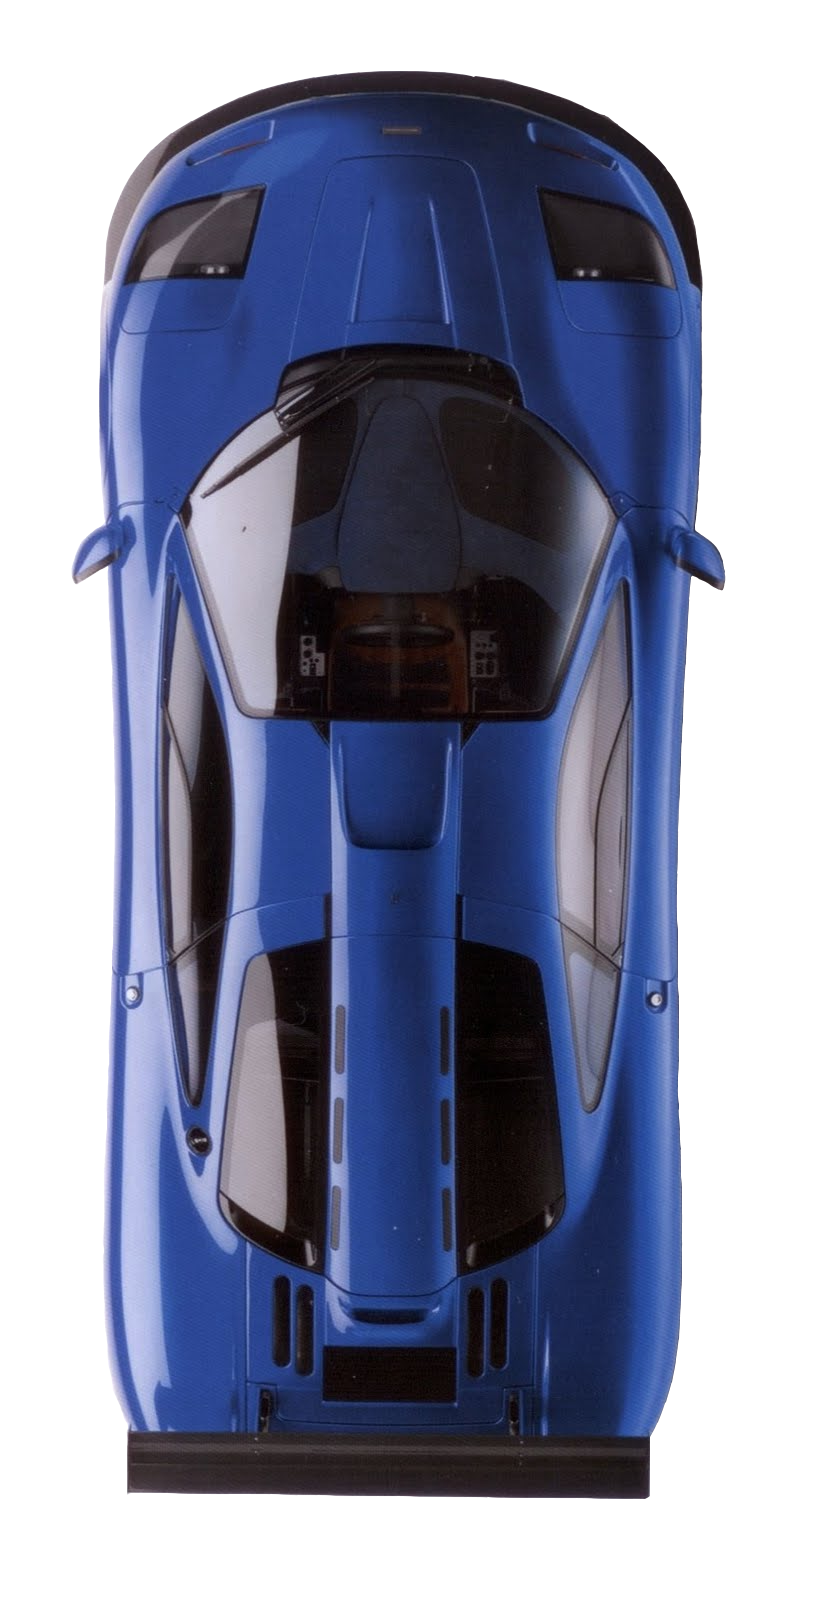
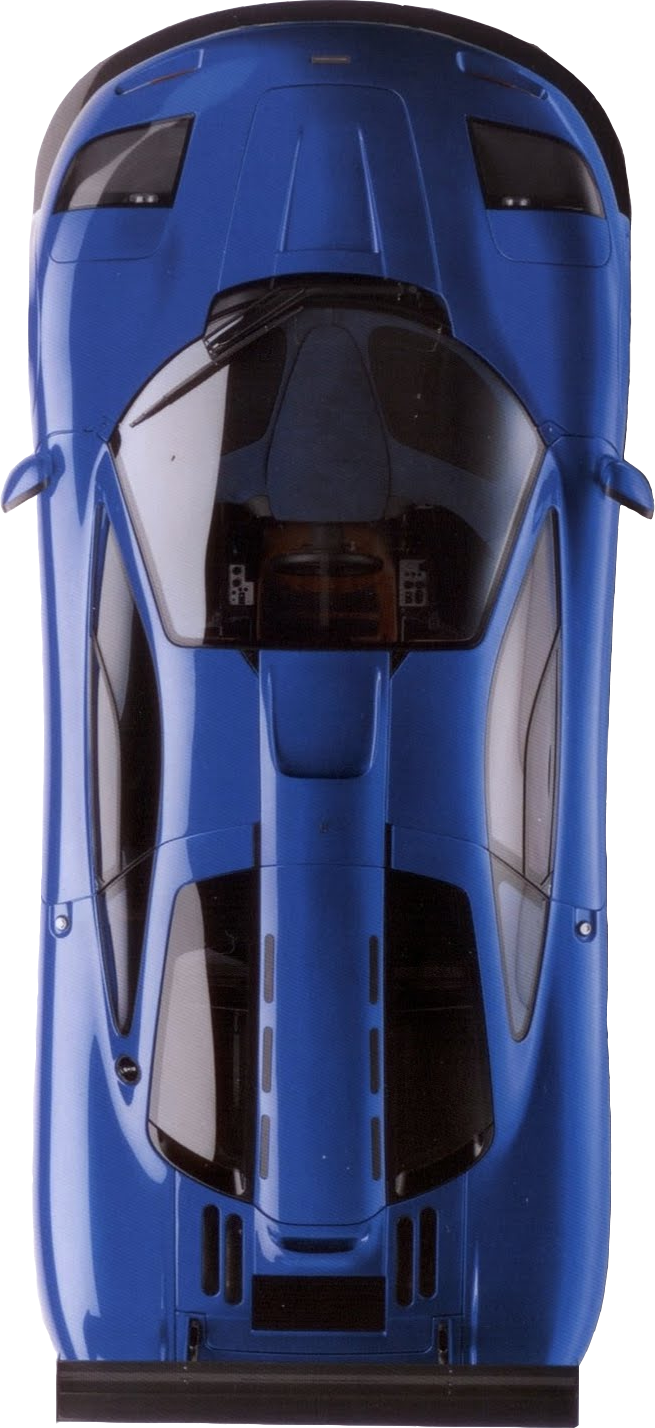
Add speedometer

diff --git a/street_racer.py b/street_racer.py
@@ -2,6 +2,7 @@
 import json
 import os
 import scipy.interpolate
+from math import cos, sin, degrees, radians, asin, pi
 
 try:
     # Only used to show the power and torque interpolation
@@ -17,6 +18,12 @@ SCREENRECT = Rect(0, 0, 1280, 720)
 
 # constant to convert Pferdestarke (PS) to kW
 PS_TO_KW = 0.73549875
+# air density in kg/m^3
+AIR_DENSITY = 1.225
+
+PIXELS_PER_METRE = 142 / 4.29
+
+EARTH_ACCELERATION = 9.81
 
 # see if we can load more than standard BMP
 if not pg.image.get_extended():
@@ -77,18 +84,27 @@ class Player(pg.sprite.Sprite):
         Args:
             configuration: dictionary with vehicle data such as name and stats
         """
+        # sprite configuration
         pg.sprite.Sprite.__init__(self, self.containers)
         self.image = self.images[0]
         self.image_original = self.images[0]
         self.rect = self.image.get_rect(midbottom=SCREENRECT.midbottom)
+        # player configuration
+        self.configuration = configuration
         self.angle = 0  # current sprite rotation in degrees
         self.posX, self.posY = self.rect.center
         self.origtop = self.rect.top
-        # Way in which car accelerates +1 = foreward, -1 = backward, 0 = no acceleration
+        # Way in which car accelerates +1 = forward, -1 = backward, 0 = no acceleration
         self.acceleration = 0
-        self.velocity = 0
+        # Way which driver wants to turn +1 = left, -1 = right, 0 = no steering
+        self.steering = 0
+        self.velocity = 0  # current velocity of the vehicle
+        self.min_RPM = configuration["stats"]["min_rpm"]
+        self.max_RPM = configuration["stats"]["max_rpm"]
         self.engine_RPM = 5000  # For now use constant RPM of the engine
         self.mass = configuration["stats"]["mass"]
+        self.gear = 1 # current gear
+        self.gears = configuration["transmission"]
 
         # Below lists represent the interpolated values of engine power and torque every 1 RPM
         self.power_interpolation = []
@@ -121,8 +137,9 @@ class Player(pg.sprite.Sprite):
         Args:
             direction: +1 turn counter-clockwise, -1 turn clockwise
         """
-        self.angle += direction
-        self.image, self.rect = rot_center(self.image_original, self.rect, self.angle)
+        self.steering = direction
+        # self.angle += direction
+        # self.image, self.rect = rot_center(self.image_original, self.rect, self.angle)
 
     def get_power(self):
         """ Returns the current power output from the engine """
@@ -135,16 +152,96 @@ class Player(pg.sprite.Sprite):
         """
         return self.torque_interpolation[int(self.engine_RPM)]
 
+    def update_rpm(self):
+        # wheel revolutions per second
+        revolutions = self.velocity / (2 * self.configuration["wheels"]["radius"] * pi)
+        engine_revolutions = revolutions * trans
+
     def update(self, deltaTime):
         # F = ma, F*s = P, W = P*t, M = r*F
+        fs = self.configuration["wheels"]["static_friction"]
+        if self.acceleration > 0 or self.velocity < 0:
+            r = self.configuration["wheels"]["radius"]
+            F = self.get_torque() / r  # force that pushes the car forward
+        else:
+            F = fs * self.mass * EARTH_ACCELERATION
 
-        # calculate the position delta
+        F *= self.acceleration
+
+        # calculate aerodynamic drag
+        SCd = (
+            self.configuration["stats"]["front_area"]
+            * self.configuration["stats"]["drag_coefficient"]
+        )
+        Fd = 0.5 * AIR_DENSITY * self.velocity ** 2 * SCd
+        F -= Fd  # F is now the net force exerted on vehicle
+        a = F / self.mass
+
+        self.velocity += a * deltaTime
+
+        self.posX += -sin(radians(self.angle)) * self.velocity * deltaTime * PIXELS_PER_METRE
+        self.posY += -cos(radians(self.angle)) * self.velocity * deltaTime * PIXELS_PER_METRE
+
+        if self.steering != 0:
+            # Calculate the maximum angle at which the car can turn without losing grip
+            wheelbase = self.configuration["geometry"]["wheelbase"]
+            max_friction = fs * self.mass * EARTH_ACCELERATION
+
+            # wheelbase/ R = sin(turningAngle)
+            # centrifugal force: Fc = mv^2/r
+            R = self.mass * self.velocity ** 2 / max_friction
+            max_turning_angle = self.configuration["wheels"]["max_turning_angle"]
+            turning_angle = 90  # no car can turn at 90 degrees
+            if R > wheelbase:
+                turning_angle = degrees(asin(wheelbase / R))
+                actualR = R
+            if turning_angle > max_turning_angle:
+                turning_angle = max_turning_angle
+                actualR = sin(radians(turning_angle)) * wheelbase
+            # omega = v / r
+            angular_velocity = self.velocity / actualR  # in radians
+            # print(self.velocity*3.6, turning_angle, max_friction)
+
+            self.angle += self.steering * degrees(angular_velocity) * deltaTime
+
+        # calculate the position delta in relation to players rectangle
         currX, currY = self.rect.center
         deltaX = int(self.posX - currX)
         deltaY = int(self.posY - currY)
         self.rect.move_ip(deltaX, deltaY)
-        pass
+        # rotate the rectangle to correct position
+        self.image, self.rect = rot_center(self.image_original, self.rect, self.angle)
 
+
+class Speedmeter(pg.sprite.Sprite):
+    """ 
+    To keep track of speed
+    """
+
+    def __init__(self, padding=3, position=(1180, 640), color="red"):
+        pg.sprite.Sprite.__init__(self)
+        self.font = pg.font.Font(None, 72)
+        # self.font.set_italic(1)
+        self.color = pg.Color(color)
+        self.lastspeed = -1
+        self.speed = 0
+        self.padding = padding
+        self.update()
+        self.rect = self.image.get_rect().move(position[0], position[1])
+
+    def set(self, speed):
+        self.speed = speed
+
+    def update(self, *args):
+        """
+        We only update the speed in update() when it has changed.
+        """
+        if self.speed != self.lastspeed:
+            self.lastspeed = self.speed
+            msg = str(self.speed)
+            pad = "0" * (self.padding-len(msg))
+            msg = pad + msg
+            self.image = self.font.render(msg, 0, self.color)
 
 def main(winstyle=0, framerate=60):
     """
@@ -155,7 +252,7 @@ def main(winstyle=0, framerate=60):
     """
     # Initialize pygame
     if pg.get_sdl_version()[0] == 2:
-        # needed for audio later on
+        # needed for audio later
         pg.mixer.pre_init(44100, 32, 2, 4096)
     pg.init()
 
@@ -170,7 +267,8 @@ def main(winstyle=0, framerate=60):
     pg.display.set_caption("Street Racer")
     pg.mouse.set_visible(0)
 
-    # Create the background, tile the background image
+    # Create the background
+    # leave it like this, in the future the background can be scrollable
     bgdtile = load_image("background.png")
     background = pg.Surface(SCREENRECT.size)
     for x in range(0, SCREENRECT.width, bgdtile.get_width()):
@@ -179,7 +277,7 @@ def main(winstyle=0, framerate=60):
     pg.display.flip()
 
     # Load images, assign to sprite classes
-    img = pg.transform.smoothscale(load_image("McLarenF1.png"), (80, 160))
+    img = pg.transform.smoothscale(load_image("McLarenF1.png"), (65, 142))
     Player.images = [img]
 
     # Initialize Game Groups
@@ -187,10 +285,13 @@ def main(winstyle=0, framerate=60):
 
     # Assign default groups to each sprite class
     Player.containers = all_groups
+    Speedmeter.containers = all_groups
 
     # Initialize the starting sprites
     mclaren_cfg = load_config("McLarenF1.json")
     player = Player(mclaren_cfg)
+    speed = Speedmeter()
+    all_groups.add(speed)
 
     ## Create Some Starting Values
     clock = pg.time.Clock()
@@ -215,12 +316,14 @@ def main(winstyle=0, framerate=60):
 
         # update all the sprites
         all_groups.update(deltaTime)
+        speed.set(int(player.velocity*3.6))
 
         # inform the car about current
         direction = keystate[K_UP] - keystate[K_DOWN]
         player.accelerate(direction)
         rotation = keystate[K_LEFT] - keystate[K_RIGHT]
         player.rotate(rotation)
+        # background.scroll(1, 1)
 
         # draw the scene
         dirty = all_groups.draw(screen)
